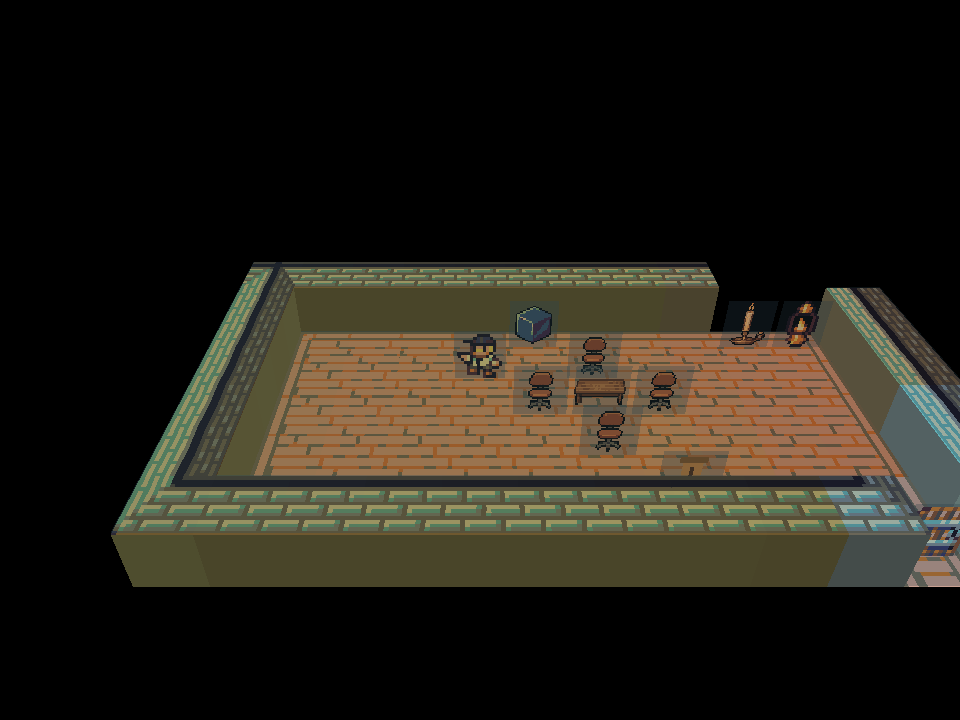
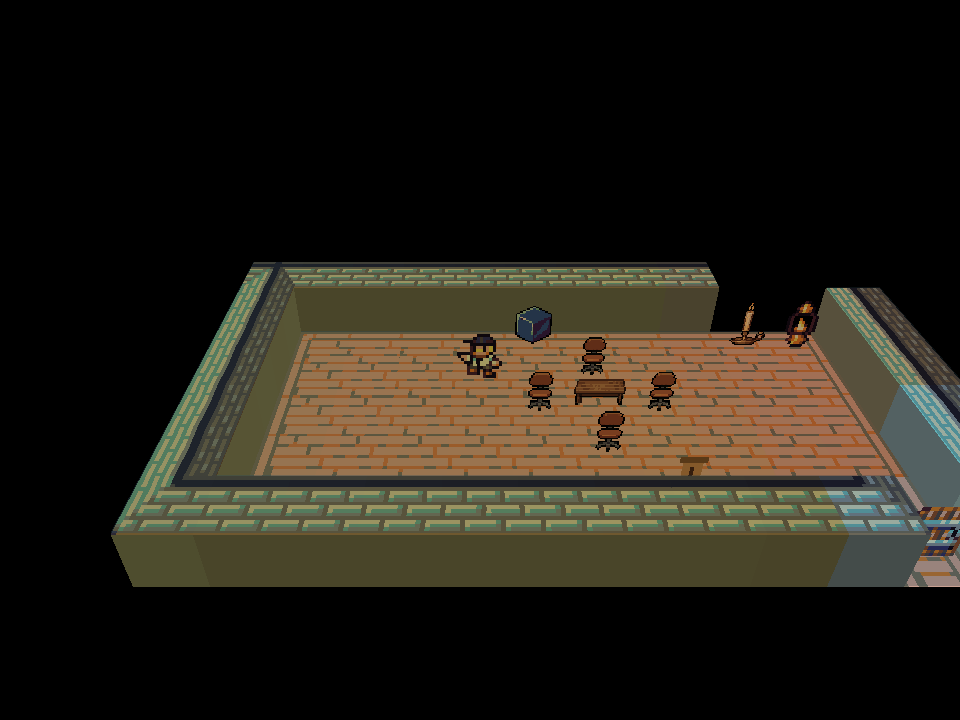
fix(render): 3Dの氷をスプライトのアルファでマスクする
ビルドボードの氷を白1pxの矩形で重ねていたため、スプライトの透明な余白まで氷色に塗られ
背景が矩形で色付いて見えた。氷をスプライトのテクスチャとUVで貼るように変え、透明部分は
アルファでマスクして氷が乗らないようにする。氷生成 appendFrostQuad に atlas と uv を渡す。
床・壁天面は一様な四角なので従来どおり白1pxで塗る。

Claude-Session: https://claude.ai/code/session_017bNxVvzzwu4wL4GvYiCSxM

Changed region(s): [[0.4688, 0.4583, 0.75, 0.6722], [0.75, 0.4583, 0.8438, 0.4889]]

diff --git a/internal/systems/render3d.go b/internal/systems/render3d.go
@@ -210,17 +210,21 @@ var frostColorNorm = [3]float64{130.0 / 255, 205.0 / 255, 240.0 / 255}
 
 // addFrostQuad は床や壁の上へ半透明の氷クアッドを重ねる。頂点色は氷色×alpha にプリマルチプライし、
 // ColorA を alpha にすることで、ソースオーバー合成が 2D の氷オーバーレイと同じ「氷色×α + 背景×(1-α)」になる。
+// addFrostQuad は床や壁天面へ氷を重ねる。タイルは一様な四角なので白1pxで塗りつぶす。
 func (sys *Render3DSystem) addFrostQuad(out *[]r3quad, fx, fz, topY, alpha float64, meta r3meta) {
-	appendFrostQuad(out, [4]r3vec{{fx, topY, fz}, {fx + 1, topY, fz}, {fx + 1, topY, fz + 1}, {fx, topY, fz + 1}}, alpha, meta)
+	p := [4]r3vec{{fx, topY, fz}, {fx + 1, topY, fz}, {fx + 1, topY, fz + 1}, {fx, topY, fz + 1}}
+	zeroUV := [4][2]float64{{0, 0}, {0, 0}, {0, 0}, {0, 0}}
+	appendFrostQuad(out, p, zeroUV, whitePixel(), alpha, meta)
 }
 
 // appendFrostQuad は氷クアッドを1枚積む。頂点色を氷色×alpha にプリマルチプライしアルファを渡すことで、
-// ソースオーバー合成が 2D の氷オーバーレイと同じになる。床・壁天面・ビルボードで共有する。
-func appendFrostQuad(out *[]r3quad, p [4]r3vec, alpha float64, meta r3meta) {
+// ソースオーバー合成が 2D の氷オーバーレイと同じになる。atlas と uv を受け、床・壁は白1px、ビルボードは
+// スプライトのテクスチャで貼る。スプライトで貼るとアルファでマスクされ透明な余白に氷が乗らない。
+func appendFrostQuad(out *[]r3quad, p [4]r3vec, uv [4][2]float64, atlas *ebiten.Image, alpha float64, meta r3meta) {
 	*out = append(*out, r3quad{
 		p:         p,
-		uv:        [4][2]float64{{0, 0}, {0, 0}, {0, 0}, {0, 0}},
-		atlas:     whitePixel(),
+		uv:        uv,
+		atlas:     atlas,
 		col:       [3]float64{frostColorNorm[0] * alpha, frostColorNorm[1] * alpha, frostColorNorm[2] * alpha},
 		alpha:     alpha,
 		kind:      meta.kind,
@@ -505,9 +509,11 @@ func (sys *Render3DSystem) collectBillboards(world w.World, quads []r3quad, pcx,
 		top := r3vec{0, bh, 0}
 		tl, tr := r3add(b0, top), r3add(b1, top)
 		sys.addQuad(&quads, tl, tr, b1, b0, atlas, ux, uy, uw, uh, scaleCol(light, b), meta)
-		// エンティティの立て板へ氷を重ねる。同じ4隅なので画家ソートの安定性で氷が手前に描かれる
+		// エンティティの立て板へ氷を重ねる。スプライトのテクスチャとUVで貼り、透明な余白は氷が乗らない。
+		// 同じ4隅と同じアトラスなので、画家ソートの安定性で氷がエンティティの手前に描かれる
 		if a, d := frost(int(g.X)); d {
-			appendFrostQuad(&quads, [4]r3vec{tl, tr, b1, b0}, a, r3meta{kind: "frostBillboard", tile: [2]int{int(g.X), int(g.Y)}, atlas: "frost"})
+			uv := [4][2]float64{{ux, uy}, {ux + uw, uy}, {ux + uw, uy + uh}, {ux, uy + uh}}
+			appendFrostQuad(&quads, [4]r3vec{tl, tr, b1, b0}, uv, atlas, a, r3meta{kind: "frostBillboard", tile: [2]int{int(g.X), int(g.Y)}, atlas: sr.SpriteSheetName})
 		}
 	}
 	return quads
